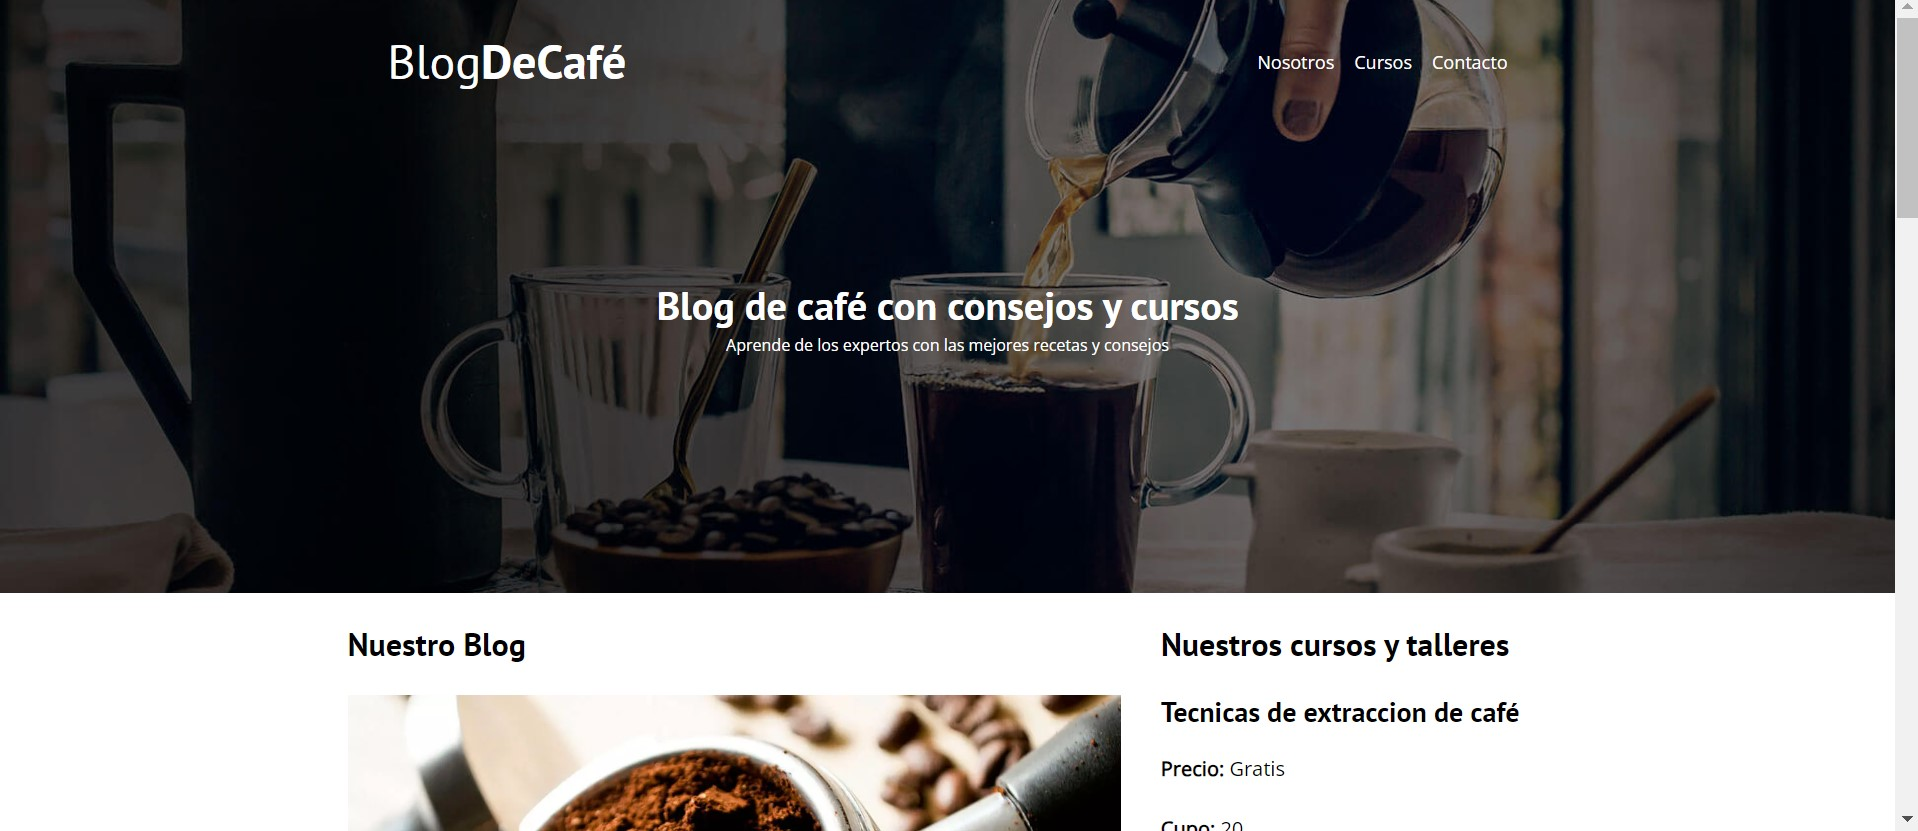
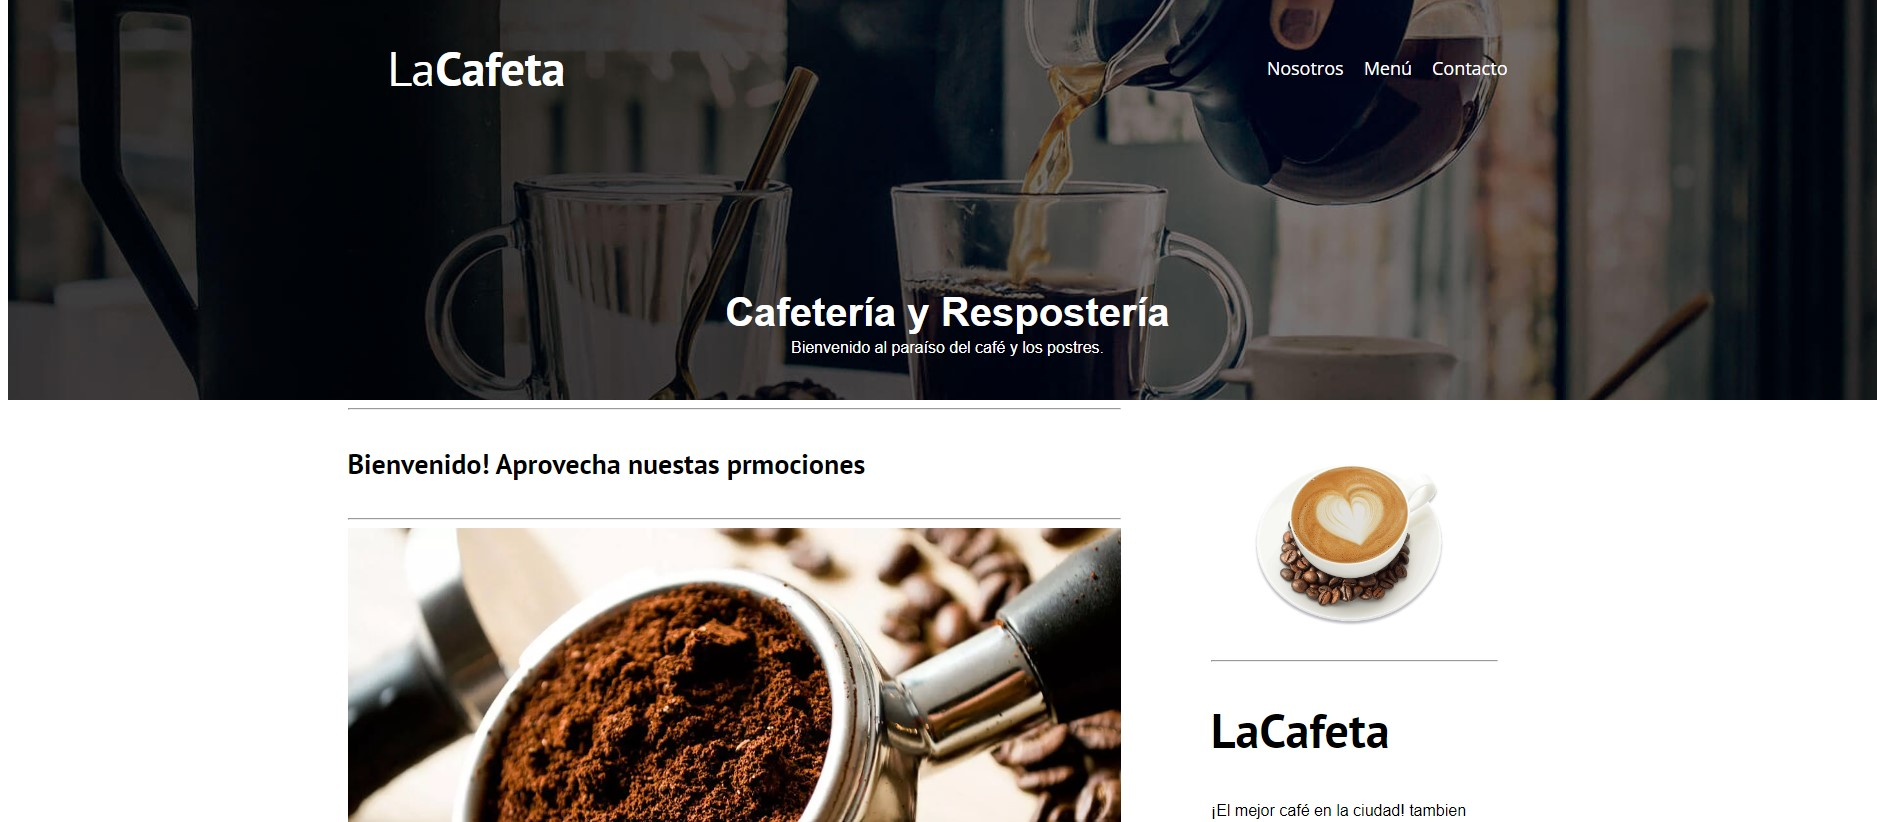
finalizado1

diff --git a/services/laCafeta.html b/services/laCafeta.html
@@ -1,0 +1,88 @@
+<!DOCTYPE html>
+<html lang="en">
+
+<head>
+    <meta charset="UTF-8">
+    <meta http-equiv="X-UA-Compatible" content="IE=edge">
+    <meta name="viewport" content="width=device-width, initial-scale=1.0">
+    <!-- Bootstrap CSS -->
+    <link href="https://cdn.jsdelivr.net/npm/bootstrap@5.0.2/dist/css/bootstrap.min.css" rel="stylesheet"
+        integrity="sha384-EVSTQN3/azprG1Anm3QDgpJLIm9Nao0Yz1ztcQTwFspd3yD65VohhpuuCOmLASjC" crossorigin="anonymous">
+    <title>La Cafeta - Smart Idea</title>
+    <link rel="stylesheet" href="../assets/css/style.css">
+    <link rel="icon" href="https://smartidea-api.000webhostapp.com/images/icon.png">
+    <link rel="preconnect" href="https://fonts.googleapis.com">
+    <link rel="preconnect" href="https://fonts.gstatic.com" crossorigin>
+    <link href="https://fonts.googleapis.com/css2?family=Roboto+Mono&display=swap" rel="stylesheet">
+    <link rel="stylesheet" href="https://cdn.jsdelivr.net/npm/bootstrap-icons@1.10.3/font/bootstrap-icons.css">
+</head>
+
+<body>
+    <div class="card bg-dark" style="color: #FED600;">
+        <div class="card-body d-flex align-items-center">
+            <a href="#" style="color: #FED600;">La Cafeta</a>
+        </div>
+        
+    </div>
+       
+      <div id="carouselExampleControls" class="carousel slide mx-5 my-5" data-bs-ride="carousel">
+        <div class="carousel-inner">
+            <div class="carousel-item active">
+                <img src="../assets/img/blogCafe/index.jpg" class="d-block w-100" alt="...">
+            </div>
+            <div class="carousel-item">
+                <img src="../assets/img/blogCafe/index2.jpg" class="d-block w-100" alt="...">
+            </div>
+            <div class="carousel-item">
+                <img src="../assets/img/blogCafe/bebidas.jpg" class="d-block w-100" alt="...">
+            </div>
+            <div class="carousel-item">
+                <img src="../assets/img/blogCafe/contacto.jpg" class="d-block w-100" alt="...">
+            </div>
+            <div class="carousel-item">
+                <img src="../assets/img/blogCafe/login.jpg" class="d-block w-100" alt="...">
+            </div>
+            <div class="carousel-item">
+                <img src="../assets/img/blogCafe/registroUsuarios.jpg" class="d-block w-100" alt="...">
+            </div>
+            <div class="carousel-item">
+                <img src="../assets/img/blogCafe/mesero.jpg" class="d-block w-100" alt="...">
+            </div>
+            <div class="carousel-item">
+                <img src="../assets/img/blogCafe/ticket.png" class="d-block w-100" alt="...">
+            </div>
+            <div class="carousel-item">
+                <img src="../assets/img/blogCafe/cocinero.jpg" class="d-block w-100" alt="...">
+            </div>
+        </div>
+        <button class="carousel-control-prev" type="button" data-bs-target="#carouselExampleControls"
+            data-bs-slide="prev">
+            <span class="carousel-control-prev-icon" aria-hidden="true"></span>
+            <span class="visually-hidden">Previous</span>
+        </button>
+        <button class="carousel-control-next" type="button" data-bs-target="#carouselExampleControls"
+            data-bs-slide="next">
+            <span class="carousel-control-next-icon" aria-hidden="true"></span>
+            <span class="visually-hidden">Next</span>
+        </button>
+    </div>
+    <div class="card bg-dark mb-4" style="color:white;">
+        <div class="card-body">
+
+            <h5 class="my-4" style="color: #FED600;">Tecnologias Utilizadas</h5>
+            <p>HTML</p>
+            <p>CSS</p>
+            <p>JS</p>
+            <p>GITHUB</p>
+            <p>BOOSTRAP</p>
+        </div>
+        <a href="../index.html" class="btn btn-warning">Regresar</a>
+      </div>
+      
+    <!-- Option 1: Bootstrap Bundle with Popper -->
+    <script src="https://cdn.jsdelivr.net/npm/bootstrap@5.0.2/dist/js/bootstrap.bundle.min.js"
+        integrity="sha384-MrcW6ZMFYlzcLA8Nl+NtUVF0sA7MsXsP1UyJoMp4YLEuNSfAP+JcXn/tWtIaxVXM"
+        crossorigin="anonymous"></script>
+</body>
+
+</html>

diff --git a/index.html b/index.html
@@ -87,9 +87,20 @@
                 <div class="card h-100 border-dark bg-dark">
                     <img src="assets/img/blogCafe/index.jpg" class="card-img-top" alt="...">
                     <div class="card-body">
-                        <h5 class="card-title">Blog de cafe</h5>
+                        <h5 class="card-title">La Cafeta</h5>
                         <div class="d-grid gap-2 col-6 mx-auto">
-                            <a href="services/blogCafe.html" class="btn btn-warning" type="button">Ver mas</a>
+                            <a href="services/laCafeta.html" class="btn btn-warning" type="button">Ver mas</a>
+                        </div>
+                    </div>
+                </div>
+            </div>
+            <div class="col">
+                <div class="card h-100 border-dark bg-dark">
+                    <img src="assets/img/store/index.jpg" class="card-img-top" alt="...">
+                    <div class="card-body">
+                        <h5 class="card-title">Store</h5>
+                        <div class="d-grid gap-2 col-6 mx-auto">
+                            <a href="services/store.html" class="btn btn-warning" type="button">Ver mas</a>
                         </div>
                     </div>
                 </div>
@@ -123,28 +134,6 @@
                         <h5 class="card-title">E-commerce miopharma</h5>
                         <div class="d-grid gap-2 col-6 mx-auto">
                             <a href="services/miopharma.html" class="btn btn-warning" type="button">Ver mas</a>
-                        </div>
-                    </div>
-                </div>
-            </div>
-            <div class="col">
-                <div class="card h-100 border-dark bg-dark">
-                    <img src="assets/img/progressmind/Home.jpg" class="card-img-top" alt="...">
-                    <div class="card-body">
-                        <h5 class="card-title">Aplicación progressmind</h5>
-                        <div class="d-grid gap-2 col-6 mx-auto">
-                            <a href="services/progressmind.html" class="btn btn-warning" type="button">Ver mas</a>
-                        </div>
-                    </div>
-                </div>
-            </div>
-            <div class="col">
-                <div class="card h-100 border-dark bg-dark">
-                    <img src="assets/img/mimi/Home.jpg" class="card-img-top" alt="...">
-                    <div class="card-body">
-                        <h5 class="card-title">Aplicación de Boutique Mimi S.A de C.V.</h5>
-                        <div class="d-grid gap-2 col-6 mx-auto">
-                            <a href="services/mimi.html" class="btn btn-warning" type="button">Ver mas</a>
                         </div>
                     </div>
                 </div>

diff --git a/services/store.html b/services/store.html
@@ -8,7 +8,7 @@
     <!-- Bootstrap CSS -->
     <link href="https://cdn.jsdelivr.net/npm/bootstrap@5.0.2/dist/css/bootstrap.min.css" rel="stylesheet"
         integrity="sha384-EVSTQN3/azprG1Anm3QDgpJLIm9Nao0Yz1ztcQTwFspd3yD65VohhpuuCOmLASjC" crossorigin="anonymous">
-    <title>Sumersa - Smart Idea</title>
+    <title>Store - Smart Idea</title>
     <link rel="stylesheet" href="../assets/css/style.css">
     <link rel="icon" href="https://smartidea-api.000webhostapp.com/images/icon.png">
     <link rel="preconnect" href="https://fonts.googleapis.com">
@@ -20,7 +20,7 @@
 <body>
     <div class="card bg-dark" style="color: #FED600;">
         <div class="card-body d-flex align-items-center">
-            <a href="https://matronly-strap.000webhostapp.com/" style="color: #FED600;">Blog café</a>
+            <a href="#" style="color: #FED600;">Store</a>
         </div>
         
     </div>
@@ -28,16 +28,13 @@
       <div id="carouselExampleControls" class="carousel slide mx-5 my-5" data-bs-ride="carousel">
         <div class="carousel-inner">
             <div class="carousel-item active">
-                <img src="../assets/img/blogCafe/index.jpg" class="d-block w-100" alt="...">
+                <img src="../assets/img/store/index.jpg" class="d-block w-100" alt="...">
             </div>
             <div class="carousel-item">
-                <img src="../assets/img/blogCafe/index2.jpg" class="d-block w-100" alt="...">
+                <img src="../assets/img/store/nosotros.jpg" class="d-block w-100" alt="...">
             </div>
             <div class="carousel-item">
-                <img src="../assets/img/blogCafe/cursos.jpg" class="d-block w-100" alt="...">
-            </div>
-            <div class="carousel-item">
-                <img src="../assets/img/blogCafe/contacto.jpg" class="d-block w-100" alt="...">
+                <img src="../assets/img/store/comprar.jpg" class="d-block w-100" alt="...">
             </div>
         </div>
         <button class="carousel-control-prev" type="button" data-bs-target="#carouselExampleControls"
@@ -53,9 +50,7 @@
     </div>
     <div class="card bg-dark mb-4" style="color:white;">
         <div class="card-body">
-            Este sitio web ha sido desarrollado para la ferreteria sumersa, con el objetivo
-            de mostrar sus catálogos de productos, su disponibilidad y precios, de igual forma
-            la ubicacion de sus diferentes sucursales.
+            
 
             <h5 class="my-4" style="color: #FED600;">Tecnologias Utilizadas</h5>
             <p>HTML</p>
